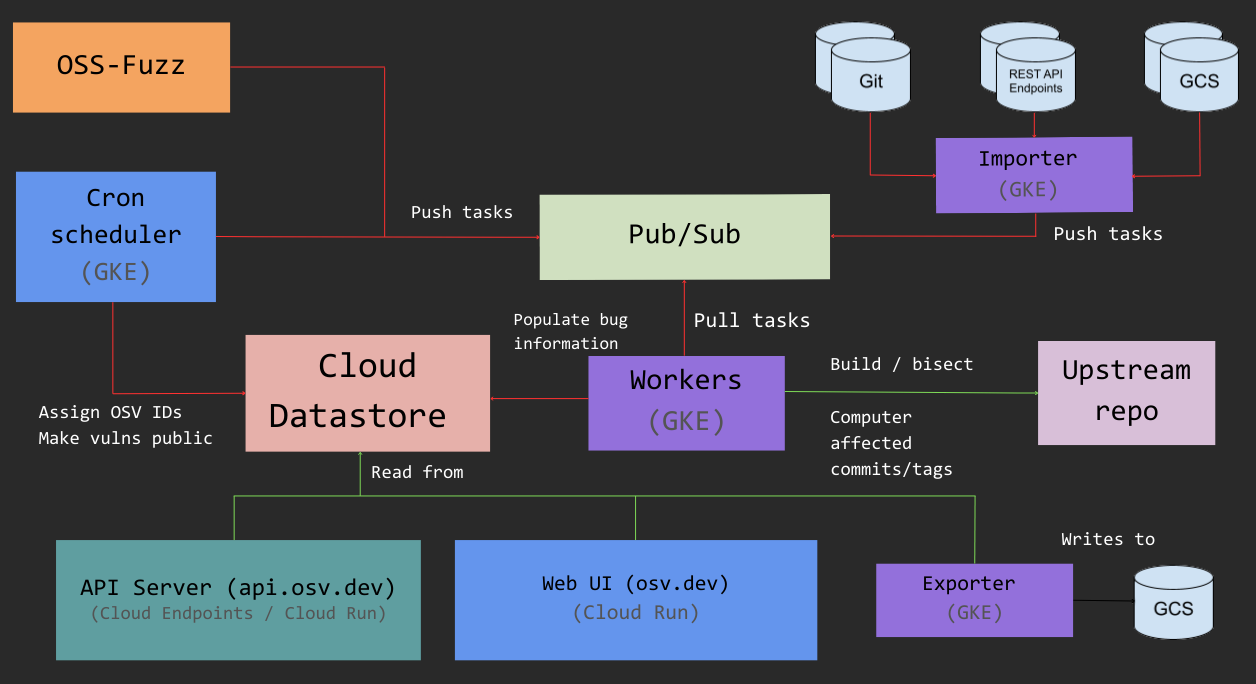
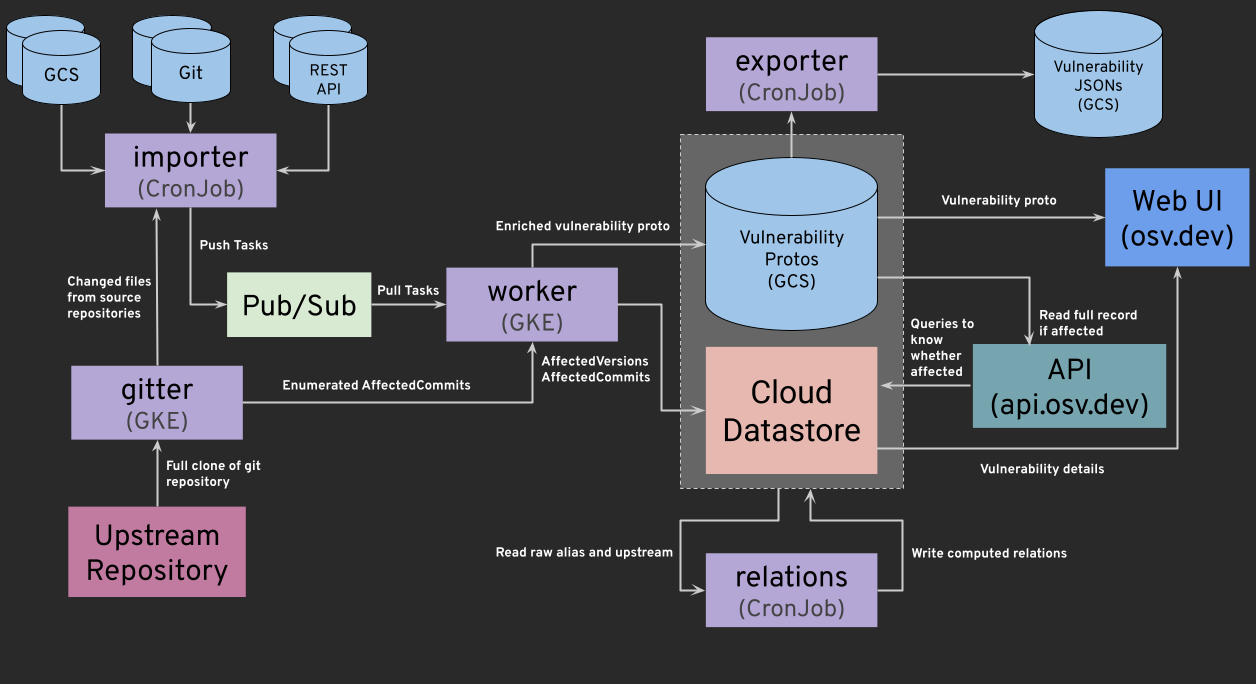
docs: update architecture to reflect infrastructure migration (#5830)
Fixes https://github.com/google/osv.dev/issues/4903

Updates the architecture documentation and diagram to reflect the
ongoing migration from Python to Go.

This includes listing Go-based services in GKE (importer, worker,
exporter, relations, gitter), updating API and website references, and
identifying Go-native datastore models.

diff --git a/docs/contributing/architecture.md b/docs/contributing/architecture.md
@@ -19,39 +19,55 @@ OSV runs on Google Cloud Platform, with the following main components:
 
 ## Cloud Datastore
 
-All vulnerability data is stored in [Cloud Datastore], with the [models] defined
-[here].
+All vulnerability data is stored in [Cloud Datastore] and the models are primarily defined in Go ([`go/internal/database/datastore/models.go`](../../go/internal/database/datastore/models.go)).
 
 [Cloud Datastore]: https://cloud.google.com/datastore
-[models]: https://googleapis.dev/python/python-ndb/latest/index.html#defining-entities-keys-and-properties
-[here]: https://github.com/google/osv.dev/blob/master/osv/models.py
+
+
+## Google Cloud Storage (GCS)
+
+Full vulnerability records (conforming to the OSV schema) are stored as protobufs and JSON files in public [Google Cloud Storage] buckets. GCS acts as the primary source of truth for the vulnerability data, while Cloud Datastore is used as an index for fast querying and API lookups.
+
+[Google Cloud Storage]: https://cloud.google.com/storage
+
 
 ## Google Kubernetes Engine (GKE)
 
-[GKE] is used for running [workers] to perform bisects and impact analysis.
-These workers consume tasks from a [Cloud Pub/Sub] topic.
+[GKE](https://cloud.google.com/kubernetes-engine) is used for running the core vulnerability processing pipeline, auxiliary background services, and legacy/OSS-Fuzz workloads. The worker node pools are spread across 1 region and 3 zones (`us-central1-a`, `us-central1-b`, and `us-central1-f`).
 
-Workers are Docker containers, which use [gVisor] for sandboxing untrusted
-workloads.
+### Core Vulnerability Pipeline (Go-based)
 
-[GKE]: https://cloud.google.com/kubernetes-engine
-[workers]: https://github.com/google/osv.dev/tree/master/gcp/workers
-[gVisor]: https://gvisor.dev/
-[Cloud Pub/Sub]: https://cloud.google.com/pubsub
+These services run as native Go workloads inside the GKE cluster:
+
+- **[importer](../../go/cmd/importer)**: A scheduled CronJob that polls and pulls vulnerability source repositories, detects additions/deletions, and dispatches processing tasks via [Cloud Pub/Sub](https://cloud.google.com/pubsub). It also manages periodic data cleanup (`importer-deleter`) and full database reconciliation (`importer-reconciler`).
+- **[worker](../../go/cmd/worker)**: A daemon Deployment that consumes Pub/Sub tasks to ingest and enrich vulnerability records, compute affected commit/version ranges, and write them to GCS and Cloud Datastore. It is scaled dynamically using a HorizontalPodAutoscaler based on the Pub/Sub backlog.
+- **[exporter](../../go/cmd/exporter)**: A scheduled CronJob that packages the entire OSV database (as zip files and individual JSON files) and exports them to public GCS buckets.
+- **[gitter](../../go/cmd/gitter)**: A caching service Deployment that caches and precomputes heavy Git repository operations (cloning, commit graphs, patch IDs) for the importers and workers. It is backed by a large SSD Persistent Volume.
+- **[relations](../../go/cmd/relations)**: A scheduled CronJob that calculates and populates transitive and reflective relationships (aliases, related, and upstream fields) between vulnerability records.
+- **[recoverer](../../go/cmd/recoverer)**: A daemon Deployment that processes failed tasks (e.g., failed GCS writes, git push failures) sent to a recovery queue, attempting to heal/repair their state.
+- **[indexer](../../gcp/indexer)**: A Deployment that manages git index mapping and version determination.
+- **[vulnfeeds](../../vulnfeeds)**: Scheduled CronJobs that mirror and convert external vulnerability advisory feeds (e.g. NVD, Debian, Alpine) into OSV schema format.
+
+### Auxiliary Services (Python-based)
+
+These run as Python workloads inside GKE:
+
+- **[vanir_signatures](../../gcp/workers/vanir_signatures)**: A scheduled CronJob that generates Vanir signatures for modified vulnerabilities.
+
+### OSS-Fuzz Integration
+
+- **[OSS-Fuzz workers](../../gcp/workers/oss_fuzz_worker)**: Legacy Python-based workers that perform bisection and impact analysis for ClusterFuzz/OSS-Fuzz bugs. Because these compile and run code from arbitrary open source projects, they run in Docker containers sandboxed with [gVisor](https://gvisor.dev/).
 
 ## Cloud Run / Cloud Endpoints
 
-The [API server] runs on [Cloud Run], and is served by [Cloud Endpoints].
+The [API server](../api/index.md) (hosted at `api.osv.dev`, source code in [`go/cmd/api`](../../go/cmd/api)) runs on [Cloud Run], and is served by [Cloud Endpoints] (transcoding HTTP/JSON REST to gRPC using ESPv2).
 
-[API server]: https://github.com/google/osv.dev/tree/master/go/cmd/api
 [Cloud Run]: https://cloud.google.com/run
 [Cloud Endpoints]: https://cloud.google.com/endpoints
 
 ## Website
 
-The [main web UI] also runs on [Cloud Run], and is served through 
-[Cloud Load Balancing].
+The [main web UI](https://osv.dev) (source code in [`gcp/website`](../../gcp/website)) also runs on [Cloud Run], and is served through [Cloud Load Balancing].
 
-[main web UI]: https://osv.dev
 [Cloud Run]: https://cloud.google.com/run
 [Cloud Load Balancing]: https://cloud.google.com/load-balancing
